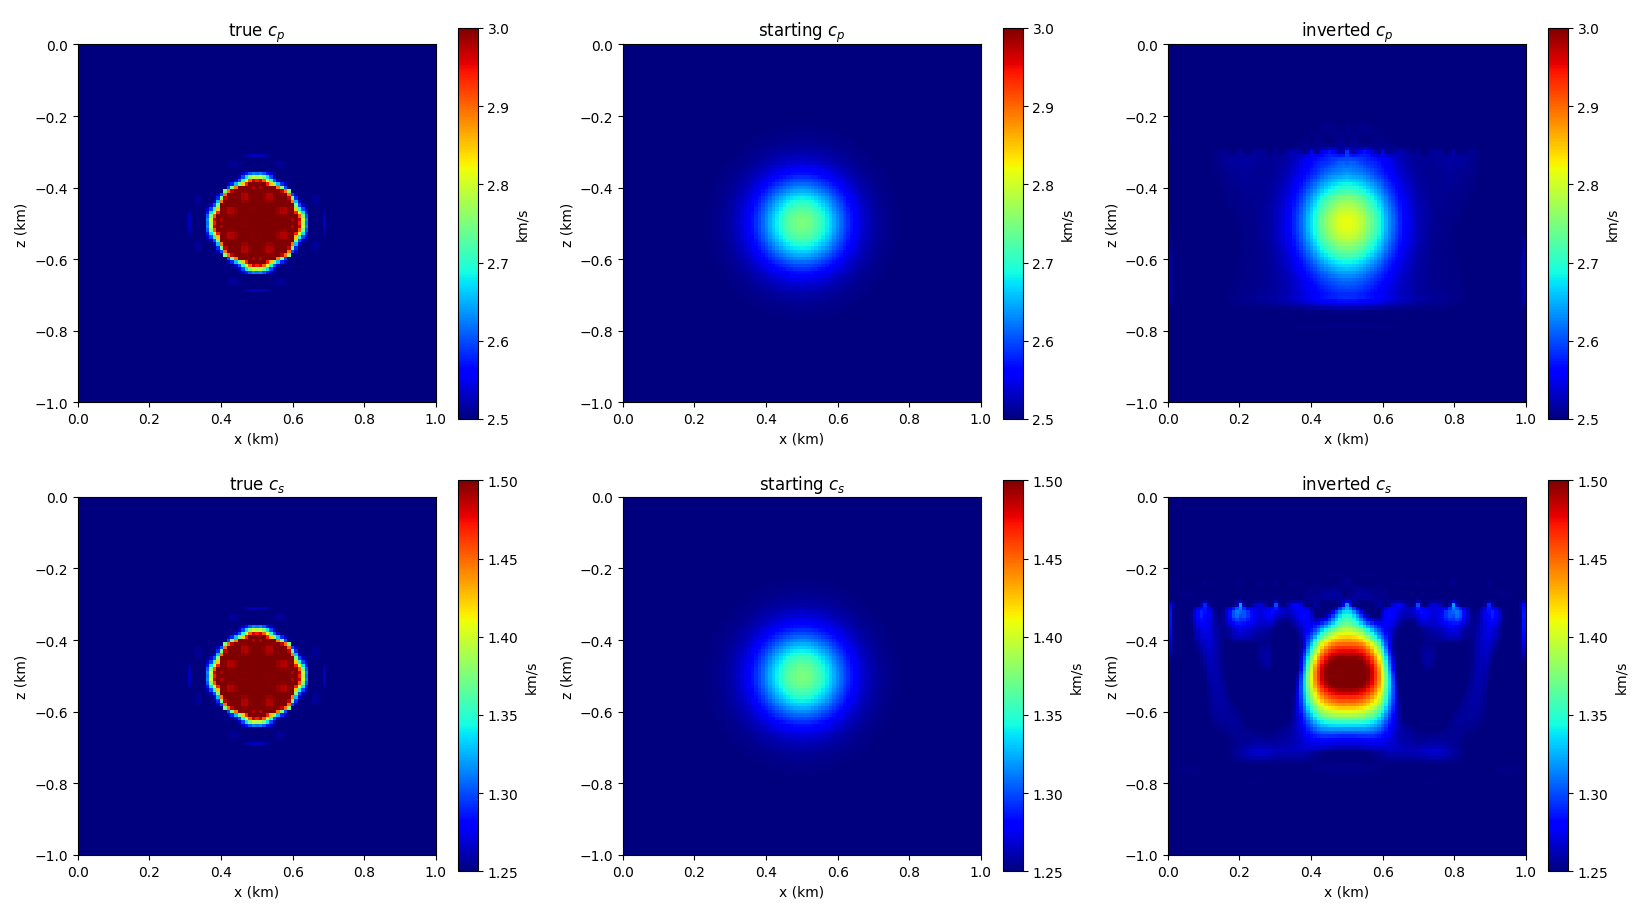
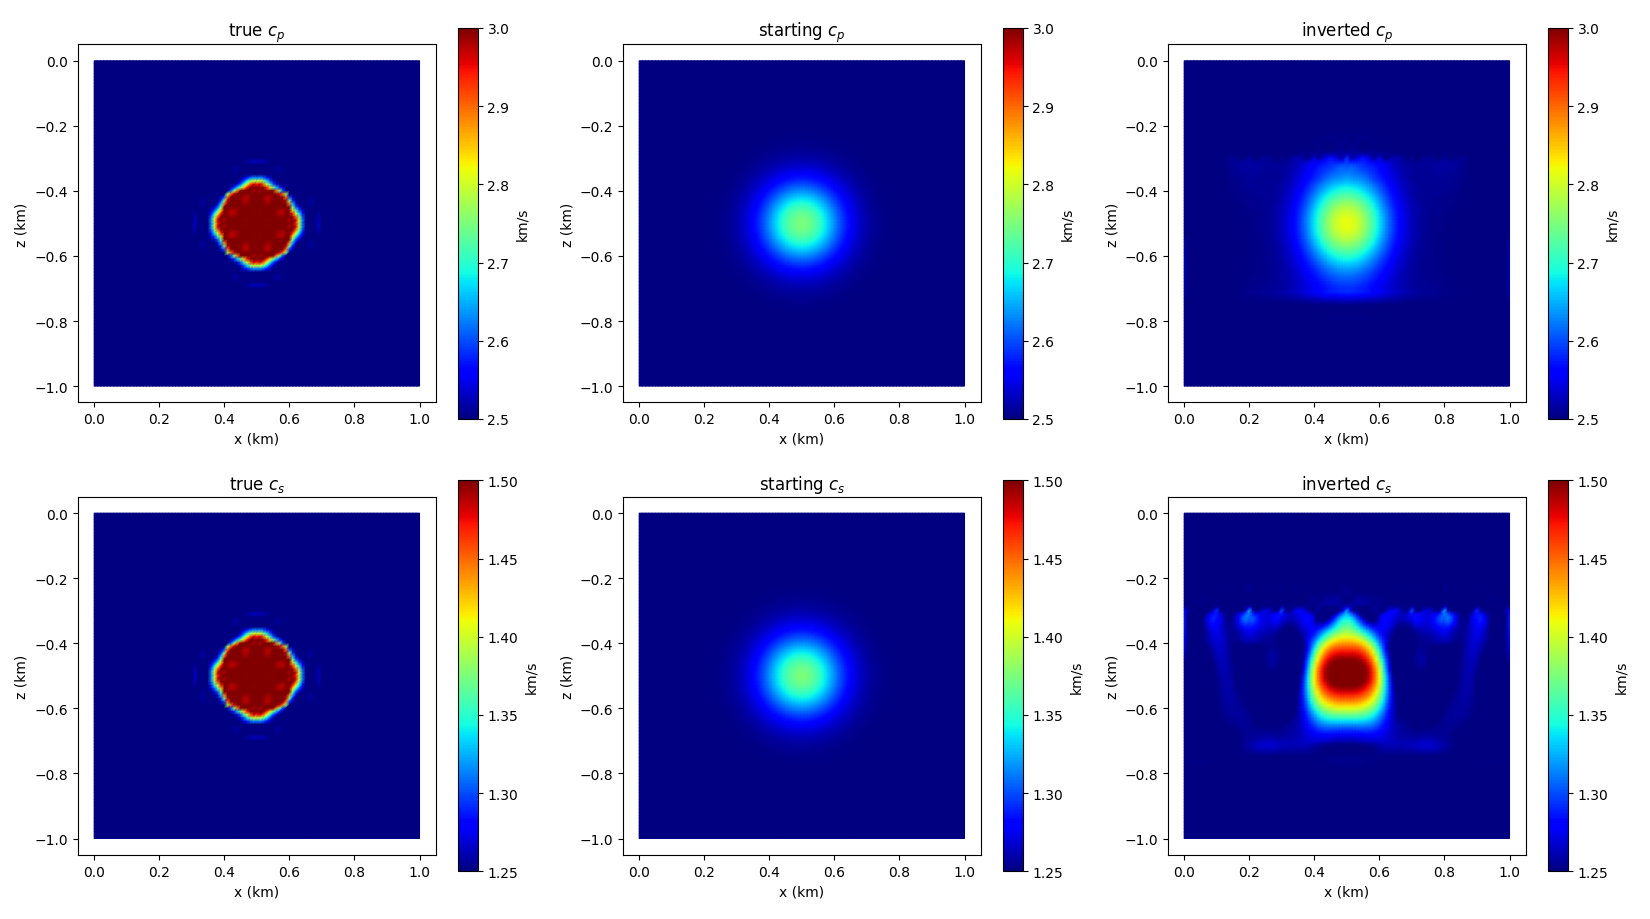
update plots

diff --git a/spyro/plots/__init__.py b/spyro/plots/__init__.py
@@ -1,8 +1,6 @@
 """Plotting helpers for wave simulation outputs."""
 
-from .general_plots import (
-    plot_shots, plot_function, plot_model, plot_model_in_p1,
-)
+from .general_plots import plot_shots, plot_function, plot_model, plot_model_in_p1
 from .mesh_plots import plot_mesh_sizes
 from .debug_plots import debug_plot, debug_pvd
 from .receiver_plots import plot_receiver_response, plot_displacement_components
